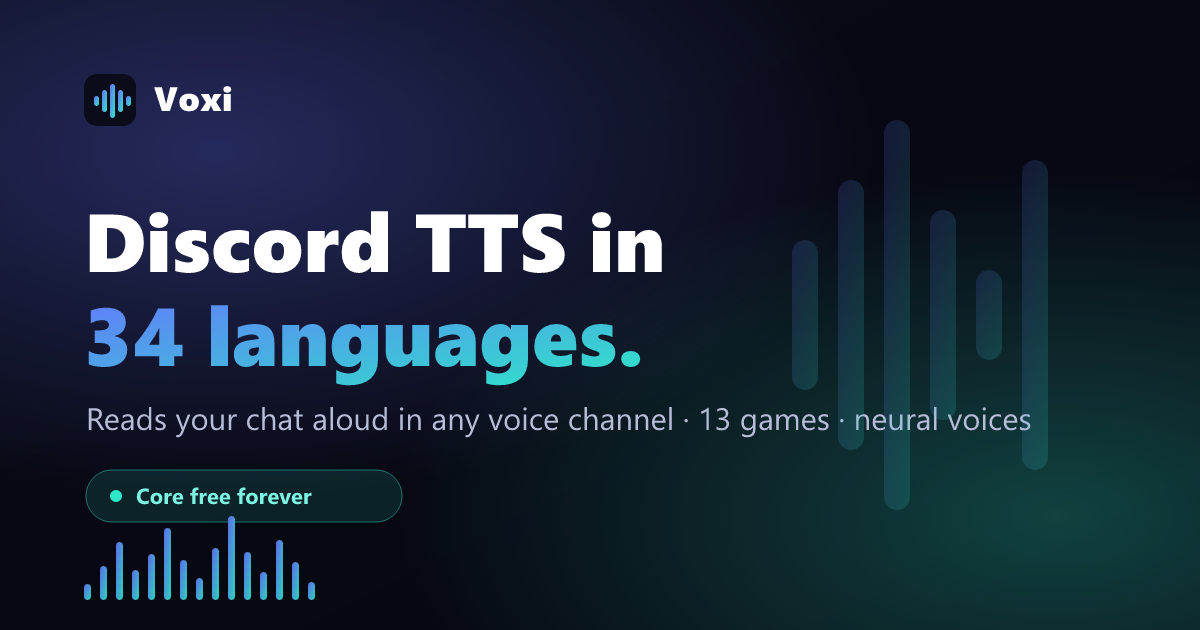
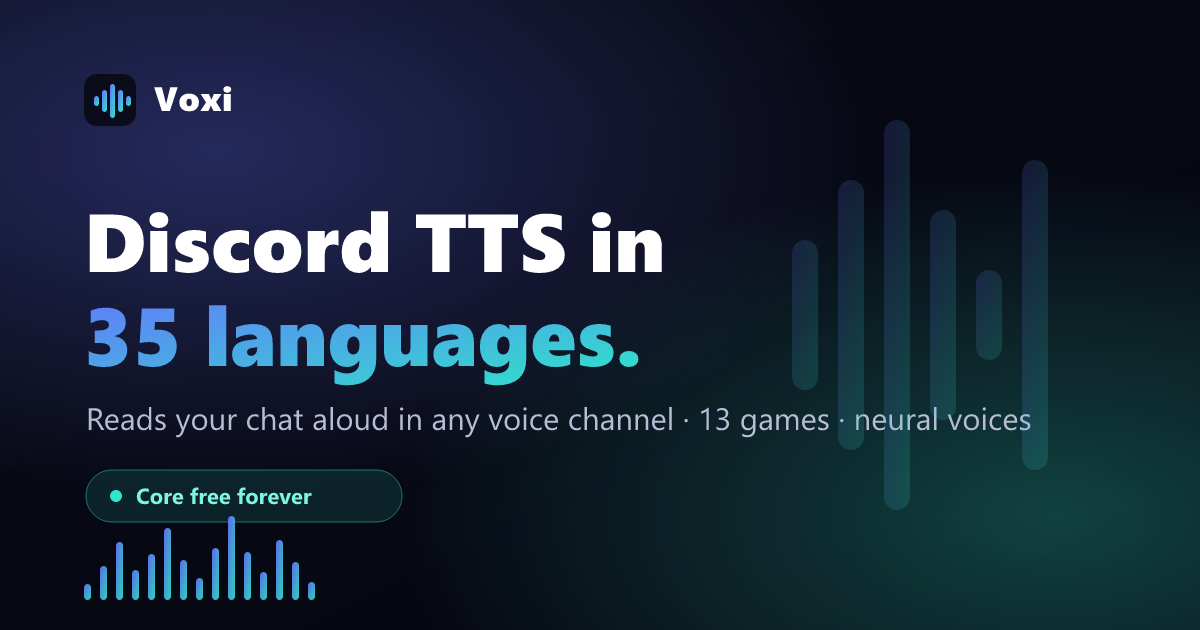
site: bump 34 -> 35 languages (Japanese now shipped)
Japanese is a real supported language now, so the marketing count is truthful:
title, meta description, og/twitter tags, og:image (regenerated PNG), hero,
features, pricing, FAQ and finale all say 35 languages. "38 neural voices"
kept as-is (the Piper voice library; the Japanese Google voice is a safe
under-count, not an over-claim).

Changed region(s): [[0.185, 0.5127, 0.5242, 0.6032], [0.0925, 0.4825, 0.1542, 0.6032]]

diff --git a/site/index.html b/site/index.html
@@ -4,10 +4,10 @@
     <meta charset="UTF-8" />
     <meta name="viewport" content="width=device-width, initial-scale=1.0" />
     <meta name="theme-color" content="#07070d" />
-    <title>Discord TTS Bot — 34 Languages, Free | Voxi</title>
+    <title>Discord TTS Bot — 35 Languages, Free | Voxi</title>
     <meta
       name="description"
-      content="Voxi reads your chat aloud in any Discord voice channel. Text to speech in 34 languages, 13 minigames, core free forever. Add to Discord in 30 seconds."
+      content="Voxi reads your chat aloud in any Discord voice channel. Text to speech in 35 languages, 13 minigames, core free forever. Add to Discord in 30 seconds."
     />
 
     <!-- Social + canonical. As URLs ABSOLUTAS assumem o GitHub Pages por defeito deste
@@ -17,20 +17,20 @@
     <meta property="og:site_name" content="Voxi" />
     <meta property="og:type" content="website" />
     <meta property="og:url" content="https://diogoshk3.github.io/discord-bot-Voxi/" />
-    <meta property="og:title" content="Voxi — Discord TTS in 34 languages" />
+    <meta property="og:title" content="Voxi — Discord TTS in 35 languages" />
     <meta
       property="og:description"
-      content="Voxi reads your chat aloud in any voice channel — 34 languages, 13 minigames, greets friends by name. Core free forever · fair €4 Premium."
+      content="Voxi reads your chat aloud in any voice channel — 35 languages, 13 minigames, greets friends by name. Core free forever · fair €4 Premium."
     />
     <meta property="og:image" content="https://diogoshk3.github.io/discord-bot-Voxi/assets/og-image.png" />
     <meta property="og:image:width" content="1200" />
     <meta property="og:image:height" content="630" />
-    <meta property="og:image:alt" content="Voxi — Discord TTS in 34 languages, core free forever" />
+    <meta property="og:image:alt" content="Voxi — Discord TTS in 35 languages, core free forever" />
     <meta name="twitter:card" content="summary_large_image" />
-    <meta name="twitter:title" content="Voxi — Discord TTS in 34 languages" />
+    <meta name="twitter:title" content="Voxi — Discord TTS in 35 languages" />
     <meta
       name="twitter:description"
-      content="Reads your chat aloud in any Discord voice channel — 34 languages, 13 minigames. Core free forever."
+      content="Reads your chat aloud in any Discord voice channel — 35 languages, 13 minigames. Core free forever."
     />
     <meta name="twitter:image" content="https://diogoshk3.github.io/discord-bot-Voxi/assets/og-image.png" />
 
@@ -55,7 +55,7 @@
         { "@type": "Question", "name": "Is Voxi really free?", "acceptedAnswer": { "@type": "Answer", "text": "Yes — everything Voxi does today is free and stays free: all voices, all 13 games, greetings, admin tools. Voxi Premium (€4/month per server) only adds optional extras like the full voice-effect pack. Nothing you use ever moves behind a paywall." } },
         { "@type": "Question", "name": "What does Premium include?", "acceptedAnswer": { "@type": "Answer", "text": "All 8 voice effects (deep, demon, radio, underwater…), with premium neural voices and 24/7 in-call mode on the way. €4/month or €40/year per server, or Voxi Plus (€1.99/month) for personal perks that follow you across servers. Redeem codes with /redeem." } },
         { "@type": "Question", "name": "How do I add Voxi to my server?", "acceptedAnswer": { "@type": "Answer", "text": "Click \"Add to Discord\", pick your server (you need Manage Server), and run /setup. That's it." } },
-        { "@type": "Question", "name": "Which languages does it support?", "acceptedAnswer": { "@type": "Answer", "text": "34 languages with 38 neural voices — Portuguese, English, Spanish, French, German, Japanese, Arabic, Russian and many more, each with a native voice." } },
+        { "@type": "Question", "name": "Which languages does it support?", "acceptedAnswer": { "@type": "Answer", "text": "35 languages with 38 neural voices — Portuguese, English, Spanish, French, German, Japanese, Arabic, Russian and many more, each with a native voice." } },
         { "@type": "Question", "name": "Do I need to configure anything?", "acceptedAnswer": { "@type": "Answer", "text": "No. /setup does it in one step. After that, everything works with sensible defaults — you can fine-tune later with /config." } },
         { "@type": "Question", "name": "Can everyone have a different voice?", "acceptedAnswer": { "@type": "Answer", "text": "Yes. Each member sets their own voice and language with /voice set, and Voxi can even detect the language of each message automatically." } },
         { "@type": "Question", "name": "How do I turn features off?", "acceptedAnswer": { "@type": "Answer", "text": "Everything is toggleable via /config — the greeting, auto-read, who-said announcements, and more. There's also a full kill-switch." } }
@@ -148,7 +148,7 @@
             </div>
 
             <p class="hero__mini reveal" data-r="5">
-              <span data-i18n="hero.mini">34 languages · 38 voices · 13 minigames · 100% free</span>
+              <span data-i18n="hero.mini">35 languages · 38 voices · 13 minigames · 100% free</span>
             </p>
           </div>
 
@@ -213,7 +213,7 @@
       <!-- ─────────────── STATS ─────────────── -->
       <section class="stats">
         <div class="wrap stats__grid">
-          <div class="stat"><b class="count" data-to="34">0</b><span data-i18n="stat.langs">languages</span></div>
+          <div class="stat"><b class="count" data-to="35">0</b><span data-i18n="stat.langs">languages</span></div>
           <div class="stat"><b class="count" data-to="38">0</b><span data-i18n="stat.voices">neural voices</span></div>
           <div class="stat"><b class="count" data-to="13">0</b><span data-i18n="stat.games">minigames</span></div>
           <div class="stat"><b class="stat__inf">∞</b><span data-i18n="stat.free">free forever</span></div>
@@ -243,7 +243,7 @@
                 <svg viewBox="0 0 24 24" fill="none" stroke="currentColor" stroke-width="1.6"><path d="M12 3v18"/><path d="M8 6v12M16 6v12M4 10v4M20 10v4"/></svg>
               </span>
               <h3 data-i18n="feat.2.t">Your voice, your language</h3>
-              <p data-i18n="feat.2.d">Every member picks their own voice from 34 languages — Google or a local neural engine.</p>
+              <p data-i18n="feat.2.d">Every member picks their own voice from 35 languages — Google or a local neural engine.</p>
             </article>
 
             <article class="card reveal">
@@ -267,7 +267,7 @@
                 <svg viewBox="0 0 24 24" fill="none" stroke="currentColor" stroke-width="1.6"><path d="M8 11a4 4 0 1 0 0-.01"/><path d="M2 20a6 6 0 0 1 12 0"/><path d="M16 4a4 4 0 0 1 0 8M18 20a6 6 0 0 0-4-5.6"/></svg>
               </span>
               <h3 data-i18n="feat.5.t">Personality included</h3>
-              <p data-i18n="feat.5.d">Greets people who join the call, says who's talking, tells jokes and laughs in 34 languages.</p>
+              <p data-i18n="feat.5.d">Greets people who join the call, says who's talking, tells jokes and laughs in 35 languages.</p>
             </article>
 
             <article class="card reveal">
@@ -415,7 +415,7 @@
                 <span data-i18n="price.free.per">forever</span>
               </div>
               <ul class="ticks">
-                <li data-i18n="price.free.1">All 38 voices in 34 languages</li>
+                <li data-i18n="price.free.1">All 38 voices in 35 languages</li>
                 <li data-i18n="price.free.2">Auto-read, 13 games, jokes & greetings</li>
                 <li data-i18n="price.free.3">Robot & Echo voice effects</li>
                 <li data-i18n="price.free.4">Every admin control & weekly leaderboard</li>
@@ -458,7 +458,7 @@
           <a class="btn btn--primary btn--lg js-invite" href="#">
             <span data-i18n="cta.add">Add to Discord</span>
           </a>
-          <p class="finale__note" data-i18n="finale.note">Free forever · 34 languages · Set up in 30 seconds</p>
+          <p class="finale__note" data-i18n="finale.note">Free forever · 35 languages · Set up in 30 seconds</p>
         </div>
       </section>
     </main>

diff --git a/site/js/i18n.js b/site/js/i18n.js
@@ -14,8 +14,8 @@ window.VOXI_I18N = {
     "hero.badge": "Core free forever · Open source",
     "hero.title1": "Type it.",
     "hero.title2": "Hear it.",
-    "hero.sub": "Voxi reads your Discord chat out loud with natural neural voices — in 34 languages, with games, laughter and a core that's free forever.",
-    "hero.mini": "34 languages · 38 voices · 13 minigames · free core",
+    "hero.sub": "Voxi reads your Discord chat out loud with natural neural voices — in 35 languages, with games, laughter and a core that's free forever.",
+    "hero.mini": "35 languages · 38 voices · 13 minigames · free core",
 
     "hear.eyebrow": "Hear it",
     "hear.title": "Press play. That's a real Voxi voice.",
@@ -33,7 +33,7 @@ window.VOXI_I18N = {
     "feat.1.t": "Auto-read channel",
     "feat.1.d": "Pick a channel and Voxi reads every message out loud. Set it up once with /setup.",
     "feat.2.t": "Your voice, your language",
-    "feat.2.d": "Every member picks their own voice from 34 languages — Google or a local neural engine.",
+    "feat.2.d": "Every member picks their own voice from 35 languages — Google or a local neural engine.",
     "feat.3.t": "Speaks like a human",
     "feat.3.d": "Detects the language of each message and even mixes voices inside a single sentence.",
     "feat.4.t": "13 voice minigames",
@@ -85,7 +85,7 @@ window.VOXI_I18N = {
     "price.free.name": "Free",
     "price.free.price": "€0",
     "price.free.per": "forever",
-    "price.free.1": "All 38 voices in 34 languages",
+    "price.free.1": "All 38 voices in 35 languages",
     "price.free.2": "Auto-read, 13 games, jokes & greetings",
     "price.free.3": "Robot & Echo voice effects",
     "price.free.4": "Every admin control & weekly leaderboard",
@@ -102,7 +102,7 @@ window.VOXI_I18N = {
     "faq.title": "Questions, answered",
 
     "finale.title": "Give your server a voice.",
-    "finale.note": "Core free forever · 34 languages · Set up in 30 seconds",
+    "finale.note": "Core free forever · 35 languages · Set up in 30 seconds",
 
     "foot.tag": "Type it, hear it.",
     "foot.product": "Product",
@@ -127,8 +127,8 @@ window.VOXI_I18N = {
     "hero.badge": "Essencial grátis para sempre · Open source",
     "hero.title1": "Escreve.",
     "hero.title2": "Ouve.",
-    "hero.sub": "O Voxi lê o teu chat do Discord em voz alta com vozes neurais naturais — em 34 línguas, com jogos, risos e um essencial grátis para sempre.",
-    "hero.mini": "34 línguas · 38 vozes · 13 minijogos · essencial grátis",
+    "hero.sub": "O Voxi lê o teu chat do Discord em voz alta com vozes neurais naturais — em 35 línguas, com jogos, risos e um essencial grátis para sempre.",
+    "hero.mini": "35 línguas · 38 vozes · 13 minijogos · essencial grátis",
 
     "hear.eyebrow": "Ouve",
     "hear.title": "Carrega em play. É mesmo a voz do Voxi.",
@@ -146,7 +146,7 @@ window.VOXI_I18N = {
     "feat.1.t": "Canal de leitura automática",
     "feat.1.d": "Escolhe um canal e o Voxi lê cada mensagem em voz alta. Configura uma vez com /setup.",
     "feat.2.t": "A tua voz, a tua língua",
-    "feat.2.d": "Cada membro escolhe a sua voz de 34 línguas — motor Google ou neural local.",
+    "feat.2.d": "Cada membro escolhe a sua voz de 35 línguas — motor Google ou neural local.",
     "feat.3.t": "Fala como um humano",
     "feat.3.d": "Deteta a língua de cada mensagem e até mistura vozes na mesma frase.",
     "feat.4.t": "13 minijogos de voz",
@@ -198,7 +198,7 @@ window.VOXI_I18N = {
     "price.free.name": "Free",
     "price.free.price": "€0",
     "price.free.per": "para sempre",
-    "price.free.1": "As 38 vozes em 34 línguas",
+    "price.free.1": "As 38 vozes em 35 línguas",
     "price.free.2": "Leitura automática, 13 jogos, piadas e saudações",
     "price.free.3": "Efeitos de voz Robot e Echo",
     "price.free.4": "Todos os controlos de admin e leaderboard semanal",
@@ -215,7 +215,7 @@ window.VOXI_I18N = {
     "faq.title": "Perguntas, respondidas",
 
     "finale.title": "Dá uma voz ao teu servidor.",
-    "finale.note": "Essencial grátis para sempre · 34 línguas · Configura em 30 segundos",
+    "finale.note": "Essencial grátis para sempre · 35 línguas · Configura em 30 segundos",
 
     "foot.tag": "Escreve, ouve.",
     "foot.product": "Produto",
@@ -288,7 +288,7 @@ window.VOXI_FAQ = [
   ],
   [
     { en: "Which languages does it support?", pt: "Que línguas suporta?" },
-    { en: "34 languages with 38 neural voices — Portuguese, English, Spanish, French, German, Japanese, Arabic, Russian and many more, each with a native voice.", pt: "34 línguas com 38 vozes neurais — português, inglês, espanhol, francês, alemão, japonês, árabe, russo e muitas mais, cada uma com voz nativa." },
+    { en: "35 languages with 38 neural voices — Portuguese, English, Spanish, French, German, Japanese, Arabic, Russian and many more, each with a native voice.", pt: "35 línguas com 38 vozes neurais — português, inglês, espanhol, francês, alemão, japonês, árabe, russo e muitas mais, cada uma com voz nativa." },
   ],
   [
     { en: "Do I need to configure anything?", pt: "Preciso de configurar alguma coisa?" },